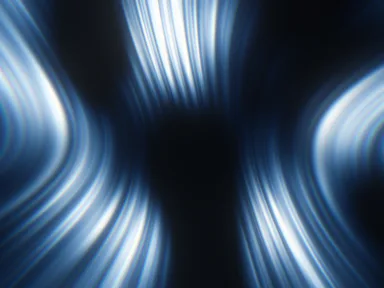
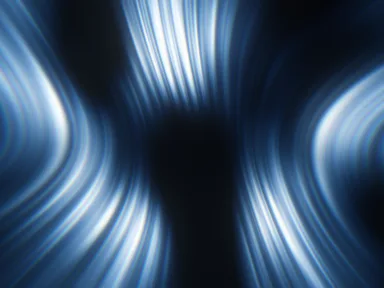
Give Corona fill and focus controls
Two per-layer settings, 0..1 and 0.5 by default, read by Corona:

- Focus sets the waist of the streamers, from a burst of rays round a
  small eye (0) to curtains hanging either side of a wide dark (1). Scale
  used to do this and now only sizes the lobes and filaments.
- Fill sets how much of the frame the light fills, from a few streamers
  (0) to a bright wash (1): it lowers the lobes' threshold, carries the
  falloff further, lets light into the eye and raises the haze and gain.

At 0.5 both give the look Corona had, so the Corona preset renders as
before (max 1/255). Ice Veil moves from scale 2.5 to focus 0.83 and fill
0.65 (within 5/255 mean 0.4).

The fields go through the schema (LayerConfig, defaults, migrate, the URL
codec), core (LayerParams, resolveConfig, stateToConfig, u_fill/u_focus),
the React types, the editor store, URL sync and preset patch, and the code
exports (FILL and FOCUS constants). The Gradient tab shows a Corona section
with the two sliders only while the layer is Corona.

Every other type and parity fixture renders bit-identically (0/255). Code
exports match the engine to 0.05/255 mean at several fill/focus pairs.

Claude-Session: https://claude.ai/code/session_01AHfoTdSQBg1YjNM6J5EGkD

diff --git a/apps/editor/lib/portable-shader.ts b/apps/editor/lib/portable-shader.ts
@@ -28,6 +28,9 @@ export interface PortableState {
   scale: number;
   distortion: number;
   softness?: number;
+  /** Corona's fill and focus, 0..1 (default 0.5). */
+  fill?: number;
+  focus?: number;
   brightness: number;
   saturation: number;
   /** Degrees. */
@@ -55,6 +58,8 @@ export interface PortableSettings {
   scale: number;
   distortion: number;
   softness: number;
+  fill: number;
+  focus: number;
   brightness: number;
   saturation: number;
   hueShift: number;
@@ -90,6 +95,8 @@ export function resolvePortableSettings(state: PortableState): PortableSettings 
     scale: finite(state.scale, 1),
     distortion: finite(state.distortion, 0.3),
     softness: finite(state.softness, 0),
+    fill: clamp(finite(state.fill, 0.5), 0, 1),
+    focus: clamp(finite(state.focus, 0.5), 0, 1),
     brightness: finite(state.brightness, 1),
     saturation: finite(state.saturation, 1),
     hueShift: finite(state.hueShift, 0),
@@ -293,6 +300,8 @@ function constantDeclarations(s: PortableSettings): Record<string, { name: strin
     u_complexity: float("COMPLEXITY", s.complexity),
     u_distortion: float("DISTORTION", s.distortion),
     u_softness: float("SOFTNESS", s.softness),
+    u_fill: float("FILL", s.fill),
+    u_focus: float("FOCUS", s.focus),
     u_colorCount: int("COLOR_COUNT", s.colors.length),
     u_mouseReact: float("MOUSE_REACT", s.mouseReact),
     u_toneMapMode: {
@@ -311,7 +320,7 @@ const STANDARD_RANGE: Record<string, string> = {
 
 /** Order the constants appear in, with a comment per group. */
 const CONSTANT_GROUPS: { comment: string; names: string[] }[] = [
-  { comment: "Look: edit and reload", names: ["SPEED", "SCALE", "COMPLEXITY", "DISTORTION", "SOFTNESS", "COLOR_COUNT"] },
+  { comment: "Look: edit and reload", names: ["SPEED", "SCALE", "COMPLEXITY", "DISTORTION", "SOFTNESS", "FILL", "FOCUS", "COLOR_COUNT"] },
   { comment: "Pointer: 0 switches it off", names: ["MOUSE_REACT"] },
   { comment: "Colour grade", names: ["BRIGHTNESS", "SATURATION", "HUE_SHIFT", "TONE_MAP_MODE", "DEBAND"] },
 ];

diff --git a/apps/editor/lib/url-sync.test.ts b/apps/editor/lib/url-sync.test.ts
@@ -17,12 +17,14 @@ import { DEFAULT_SCENE_3D_STATE, cloneScene3D } from "./scene3d";
 function buildRealisticState(): GradientState {
   const base = useGradientStore.getState();
   const layerA = createLayer({
-    gradientType: "inkSmoke",
+    gradientType: "corona",
     speed: 0.8,
     complexity: 5,
     scale: 1.4,
     distortion: 0.6,
     softness: 0.72,
+    fill: 0.8,
+    focus: 0.15,
     opacity: 0.9,
     blendMode: "screen",
     depth: 0.25,
@@ -138,16 +140,18 @@ describe("storeToConfig / configToStorePatch", () => {
     expect(patch.debandEnabled).toBe(false);
     expect(patch.debandStrength).toBeCloseTo(1.5);
 
-    // Layers: both layers' 9 schema-owned fields round-trip.
+    // Layers: both layers' 11 schema-owned fields round-trip.
     expect(patch.layers).toBeDefined();
     const outLayers = patch.layers!;
     expect(outLayers.length).toBe(2);
-    expect(outLayers[0].gradientType).toBe("inkSmoke");
+    expect(outLayers[0].gradientType).toBe("corona");
     expect(outLayers[0].speed).toBeCloseTo(0.8);
     expect(outLayers[0].complexity).toBe(5);
     expect(outLayers[0].scale).toBeCloseTo(1.4);
     expect(outLayers[0].distortion).toBeCloseTo(0.6);
     expect(outLayers[0].softness).toBeCloseTo(0.72);
+    expect(outLayers[0].fill).toBeCloseTo(0.8);
+    expect(outLayers[0].focus).toBeCloseTo(0.15);
     expect(outLayers[0].opacity).toBeCloseTo(0.9);
     expect(outLayers[0].blendMode).toBe("screen");
     expect(outLayers[0].depth).toBeCloseTo(0.25);

diff --git a/apps/editor/lib/store.ts b/apps/editor/lib/store.ts
@@ -189,6 +189,8 @@ export interface GradientState {
   scale: number;
   distortion: number;
   softness: number;
+  fill: number;
+  focus: number;
   colors: [number, number, number][];
 
   // Actions
@@ -248,7 +250,7 @@ const HISTORY_EXCLUDE_KEYS: (keyof GradientState)[] = [
   "toggleTimeline", "addKeyframe", "removeKeyframe", "setTimelinePosition",
   "setTimelineDuration", "setTimelinePlaybackMode",
   // Derived fields
-  "gradientType", "speed", "complexity", "scale", "distortion", "softness", "colors",
+  "gradientType", "speed", "complexity", "scale", "distortion", "softness", "fill", "focus", "colors",
   "customGLSL",
 ];
 
@@ -318,6 +320,8 @@ function deriveActiveLayerFields(layers: LayerParams[], activeLayerIndex: number
     scale: layer.scale,
     distortion: layer.distortion,
     softness: layer.softness,
+    fill: layer.fill,
+    focus: layer.focus,
     colors: layer.colors,
   };
 }
@@ -423,7 +427,7 @@ function flushPending() {
 
 // Map layer param keys to top-level state keys for backward compatibility
 const LAYER_PARAM_KEYS: (keyof LayerParams)[] = [
-  "gradientType", "speed", "complexity", "scale", "distortion", "softness", "colors",
+  "gradientType", "speed", "complexity", "scale", "distortion", "softness", "fill", "focus", "colors",
 ];
 
 function applyToActiveLayer(

diff --git a/packages/core/src/config.ts b/packages/core/src/config.ts
@@ -5,13 +5,15 @@ import { currentGradientType } from "@wavr/schema/enums";
 
 const LAYER_DEFAULTS: Required<Pick<
   LayerConfig,
-  "speed" | "complexity" | "scale" | "distortion" | "softness" | "opacity" | "blendMode" | "depth"
+  "speed" | "complexity" | "scale" | "distortion" | "softness" | "fill" | "focus" | "opacity" | "blendMode" | "depth"
 >> = {
   speed: 0.4,
   complexity: 3,
   scale: 1.0,
   distortion: 0.3,
   softness: 0,
+  fill: 0.5,
+  focus: 0.5,
   opacity: 1.0,
   blendMode: "normal",
   depth: 0,
@@ -26,6 +28,8 @@ function resolveLayer(layer: LayerConfig): LayerParams {
     scale: layer.scale ?? LAYER_DEFAULTS.scale,
     distortion: layer.distortion ?? LAYER_DEFAULTS.distortion,
     softness: layer.softness ?? undefined,
+    fill: layer.fill ?? LAYER_DEFAULTS.fill,
+    focus: layer.focus ?? LAYER_DEFAULTS.focus,
     opacity: layer.opacity ?? LAYER_DEFAULTS.opacity,
     blendMode: layer.blendMode ?? LAYER_DEFAULTS.blendMode,
     depth: layer.depth ?? LAYER_DEFAULTS.depth,
@@ -182,6 +186,8 @@ export function stateToConfig(state: EngineState): GradientConfig {
       scale: l.scale,
       distortion: l.distortion,
       softness: l.softness,
+      fill: l.fill,
+      focus: l.focus,
       opacity: l.opacity,
       blendMode: l.blendMode,
       depth: l.depth,

diff --git a/apps/editor/lib/url-sync.ts b/apps/editor/lib/url-sync.ts
@@ -255,7 +255,7 @@ export function storeToConfig(state: GradientState): GradientConfig {
 
 function layerParamsToConfig(l: LayerParams): GradientConfig["layers"][number] {
   // Schema LayerConfig has exactly: type, colors, speed, complexity, scale,
-  // distortion, softness, opacity, blendMode, depth. Skip: visible, imageData,
+  // distortion, softness, fill, focus, opacity, blendMode, depth. Skip: visible, imageData,
   // imageScale, imageOffset, distortionMap*, imageBlendMode, imageBlendOpacity,
   // mask*, textMask* — all layer-extension fields (editor-only).
   return {
@@ -266,6 +266,8 @@ function layerParamsToConfig(l: LayerParams): GradientConfig["layers"][number] {
     scale: l.scale,
     distortion: l.distortion,
     softness: l.softness,
+    fill: l.fill,
+    focus: l.focus,
     opacity: l.opacity,
     blendMode: l.blendMode as SchemaBlendMode,
     depth: l.depth,
@@ -407,6 +409,8 @@ function layerConfigToParams(l: GradientConfig["layers"][number]): LayerParams {
     scale: l.scale,
     distortion: l.distortion,
     softness: l.softness,
+    fill: l.fill,
+    focus: l.focus,
     colors: l.colors.map((c) => [...c] as [number, number, number]),
     opacity: l.opacity,
     blendMode: l.blendMode as CoreBlendMode,

diff --git a/apps/editor/components/GradientPanel.tsx b/apps/editor/components/GradientPanel.tsx
@@ -366,6 +366,16 @@ export default function GradientPanel() {
         )}
       </Section>
 
+      {store.gradientType === "corona" && (
+        <Section title="Corona">
+          <p className="text-[11px] leading-snug text-text-tertiary">
+            Focus runs from a burst round a dark eye to hanging curtains. Fill runs from a few streamers to a bright wash.
+          </p>
+          <Slider label="Focus" value={store.focus} min={0} max={1} step={0.01} onChange={(v) => store.set({ focus: v })} onCommit={() => store.commitSet()} />
+          <Slider label="Fill" value={store.fill} min={0} max={1} step={0.01} onChange={(v) => store.set({ fill: v })} onCommit={() => store.commitSet()} />
+        </Section>
+      )}
+
       <Section title="Motion">
         <Slider label="Speed" value={store.speed} min={0} max={2} step={0.01} format={times} onChange={(v) => store.set({ speed: v })} onCommit={() => store.commitSet()} />
         <Slider label="Scale" value={store.scale} min={0.2} max={4} step={0.01} format={times} onChange={(v) => store.set({ scale: v })} onCommit={() => store.commitSet()} />

diff --git a/packages/schema/test/url.test.ts b/packages/schema/test/url.test.ts
@@ -41,6 +41,8 @@ function randomConfig(rand: () => number): GC {
       scale: 0.2 + rand() * 3.8,
       distortion: rand(),
       softness: rand(),
+      fill: rand(),
+      focus: rand(),
       opacity: rand(),
       blendMode: BLEND_MODES[Math.floor(rand() * BLEND_MODES.length)]!,
       depth: rand() * 2 - 1,
@@ -116,6 +118,8 @@ describe("size budget (gate 2)", () => {
           scale: 1.2,
           distortion: 0.4,
           softness: 0.35,
+          fill: 0.5,
+          focus: 0.5,
           opacity: 1,
           blendMode: "normal",
           depth: 0,
@@ -128,6 +132,8 @@ describe("size budget (gate 2)", () => {
           scale: 1,
           distortion: 0.2,
           softness: 0.2,
+          fill: 0.5,
+          focus: 0.5,
           opacity: 0.7,
           blendMode: "screen",
           depth: 0.3,
@@ -314,6 +320,8 @@ describe("share URLs naming a retired gradient type", () => {
       scale: 1.3,
       distortion: 0.45,
       softness: 0.2,
+      fill: 0.5,
+      focus: 0.5,
       opacity: 1,
       blendMode: "normal",
       depth: 0,

diff --git a/packages/core/src/engine.ts b/packages/core/src/engine.ts
@@ -170,7 +170,7 @@ const MASK_BLEND_MODE_MAP: Record<MaskBlendMode, number> = {
  */
 export const PROGRAM_UNIFORM_NAMES: readonly string[] = [
   "u_time", "u_resolution", "u_mouse", "u_mouseSmooth", "u_mouseVelocity",
-  "u_speed", "u_complexity", "u_scale", "u_distortion", "u_softness",
+  "u_speed", "u_complexity", "u_scale", "u_distortion", "u_softness", "u_fill", "u_focus",
   "u_brightness", "u_saturation", "u_colorCount",
   "u_noiseEnabled", "u_noiseIntensity", "u_noiseScale", "u_grain",
   "u_mouseReact", "u_mousePresence",
@@ -1817,6 +1817,8 @@ export class GradientEngine {
     this.setf("u_complexity", layer.complexity);
     this.setf("u_scale", layer.scale);
     this.setf("u_distortion", layer.distortion);
+    this.setf("u_fill", layer.fill);
+    this.setf("u_focus", layer.focus);
     this.setPalette(layer);
     this.setf("u_layerOpacity", layer.opacity);
     // Parallax depth (per-layer)

diff --git a/packages/schema/src/descriptions.gen.ts b/packages/schema/src/descriptions.gen.ts
@@ -22,6 +22,8 @@ export const DESCRIPTIONS = {
   "LayerConfig.scale": "Pattern zoom. <1 = larger features.",
   "LayerConfig.distortion": "Noise displacement of UVs.",
   "LayerConfig.softness": "Per-layer color-field melting for naturally blurred, blended premium gradients.",
+  "LayerConfig.fill": "How much of the frame the light fills, from a few streamers (0) to a bright wash (1). Read by corona.",
+  "LayerConfig.focus": "Where the light converges, from a burst of rays round a dark eye (0) to hanging curtains (1). Read by corona.",
   "LayerConfig.opacity": "Layer opacity when composited.",
   "LayerConfig.blendMode": "How this layer composites onto the layer beneath.",
   "LayerConfig.depth": "Parallax depth. Negative = behind.",

diff --git a/packages/schema/src/layer.ts b/packages/schema/src/layer.ts
@@ -12,6 +12,8 @@ export const LayerConfig = d(
     scale: d("LayerConfig.scale", z.number().min(0.2).max(4)).default(1),
     distortion: d("LayerConfig.distortion", z.number().min(0).max(1)).default(0.3),
     softness: d("LayerConfig.softness", z.number().min(0).max(1)).default(0),
+    fill: d("LayerConfig.fill", z.number().min(0).max(1)).default(0.5),
+    focus: d("LayerConfig.focus", z.number().min(0).max(1)).default(0.5),
     opacity: d("LayerConfig.opacity", z.number().min(0).max(1)).default(1),
     blendMode: d("LayerConfig.blendMode", BlendMode).default("normal"),
     depth: d("LayerConfig.depth", z.number().min(-1).max(1)).default(0),

diff --git a/packages/core/src/presets/light-fields.ts b/packages/core/src/presets/light-fields.ts
@@ -139,17 +139,18 @@ export const corona: GradientConfig = {
   realBloomEnabled: true,
 };
 
-// The corona close up: pale streamers hanging as curtains either side of the
-// dark.
+// Pale streamers hanging as curtains either side of the dark.
 export const iceVeil: GradientConfig = {
   layers: [{
     type: "corona",
     colors: [[0.006, 0.008, 0.016], [0.035, 0.07, 0.16], [0.18, 0.34, 0.62], [0.5, 0.68, 0.9], [0.82, 0.9, 0.98], [0.98, 0.99, 1]],
     speed: 0.4,
     complexity: 6,
-    scale: 2.5,
+    scale: 1,
     distortion: 0.5,
     softness: 0.55,
+    fill: 0.65,
+    focus: 0.83,
   }],
   grain: 0.08,
   toneMapMode: 0,

diff --git a/packages/schema/src/url.ts b/packages/schema/src/url.ts
@@ -187,7 +187,7 @@ function stripLayerDefaults(layer: GC["layers"][number]): Record<string, unknown
   // Layer default values sourced from the Zod schema defaults (see src/layer.ts).
   const layerDefaults = LayerConfig.parse({ type: layer.type, colors: layer.colors });
   const scalarKeys: Array<keyof typeof layer> = [
-    "speed", "complexity", "scale", "distortion", "softness", "opacity", "blendMode", "depth",
+    "speed", "complexity", "scale", "distortion", "softness", "fill", "focus", "opacity", "blendMode", "depth",
   ];
   for (const k of scalarKeys) {
     if (layer[k] !== layerDefaults[k]) out[k as string] = layer[k];
